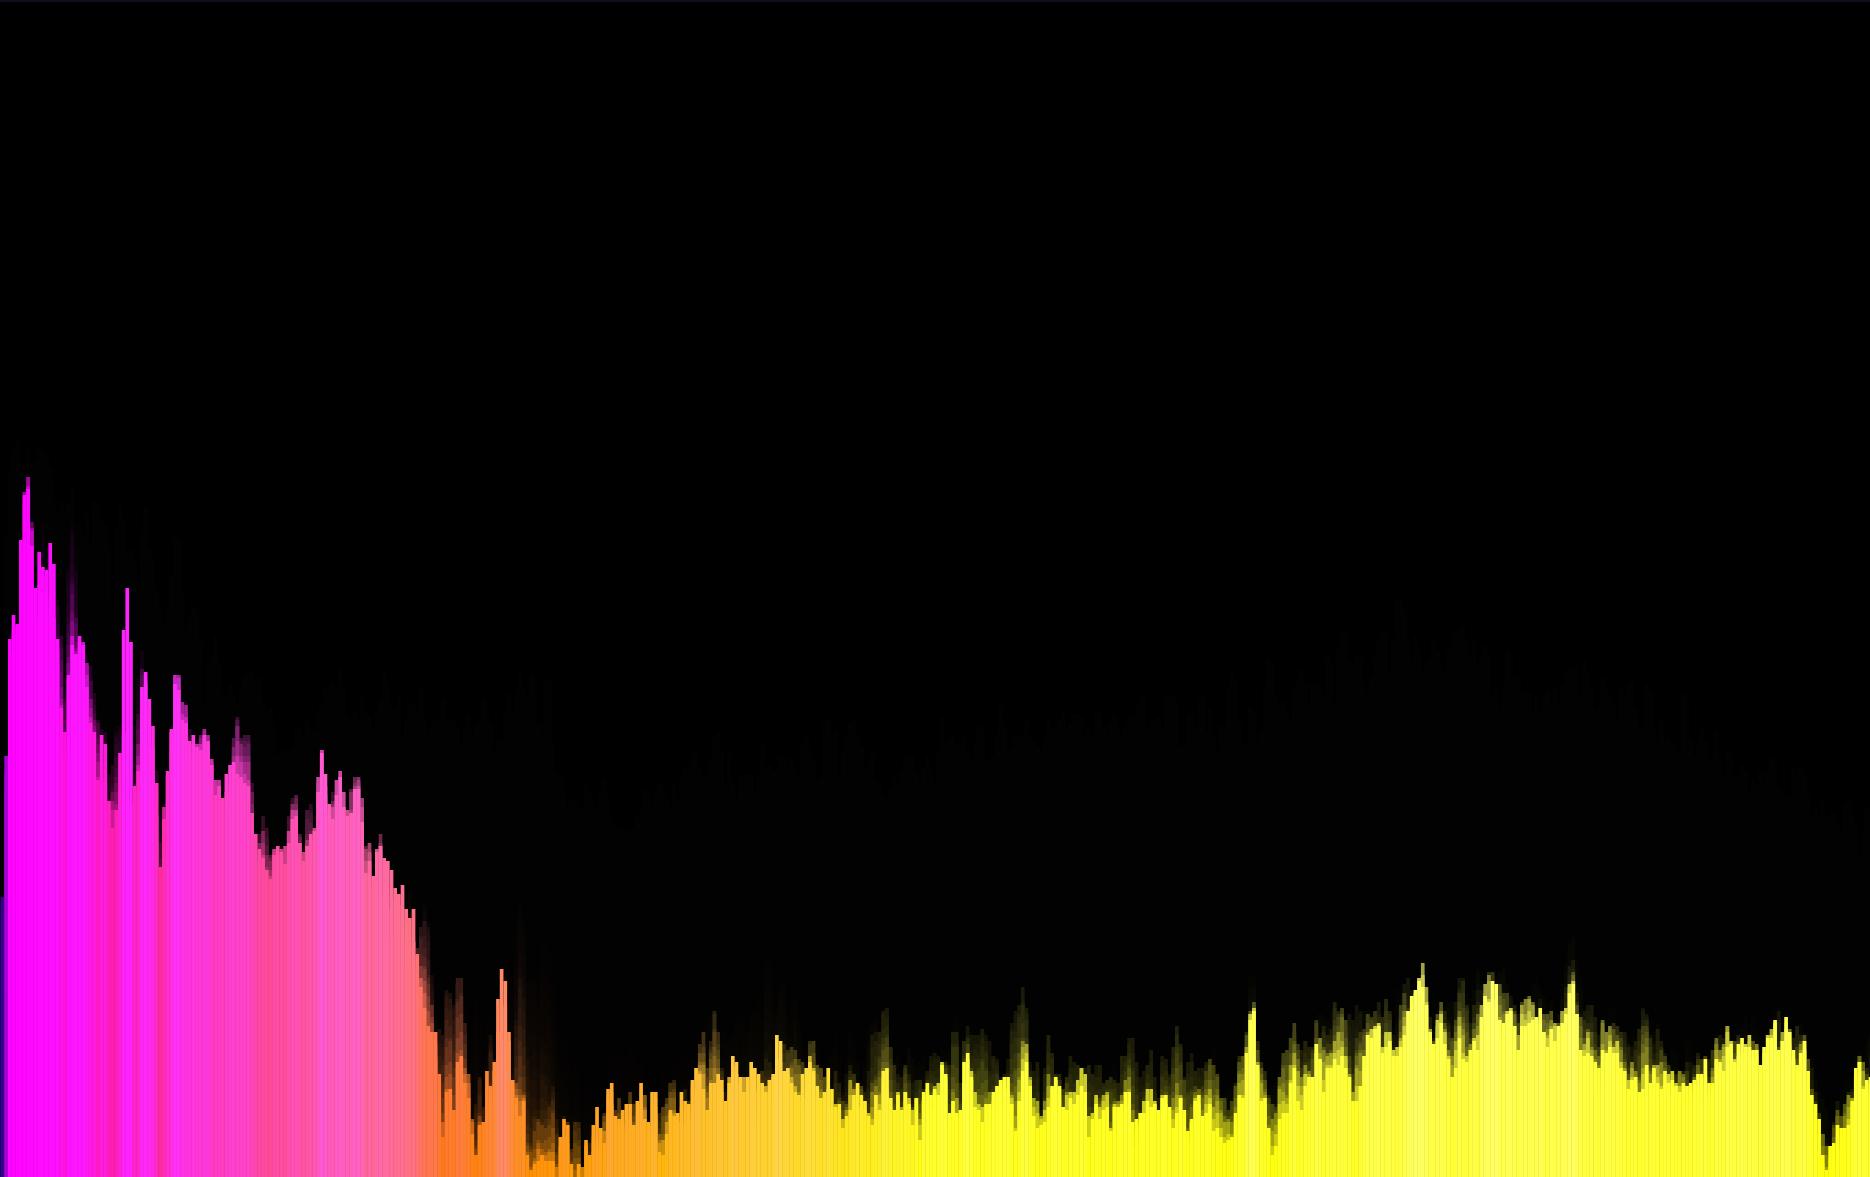
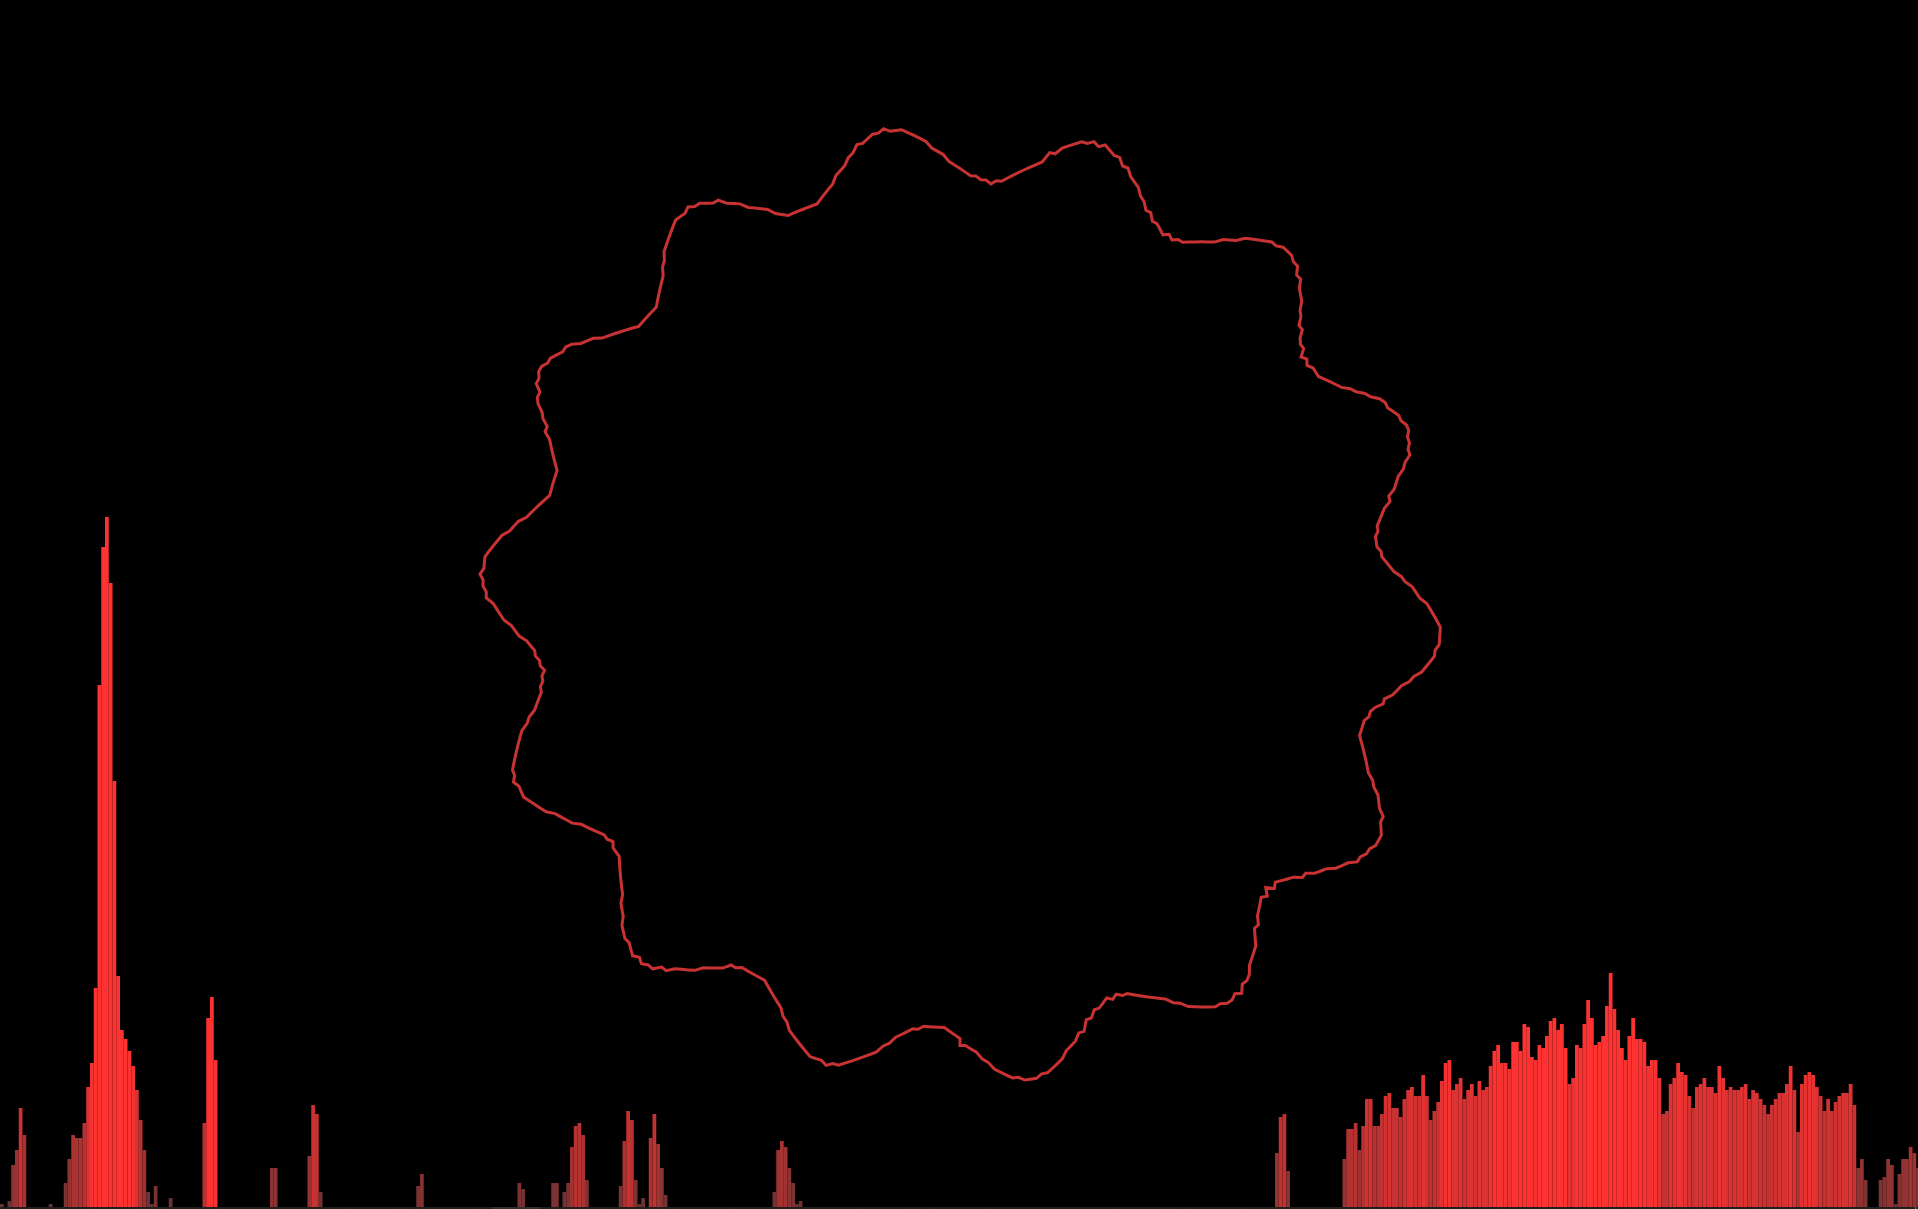
update audiovisualizer

diff --git a/pages/iWasBored/audiovisualizer.html b/pages/iWasBored/audiovisualizer.html
@@ -32,50 +32,88 @@
 		<canvas id="canvas"></canvas>
 		<audio id="audio"></audio>
 		<script>
-			
+
+			var WAVEFORM_AMPLIFIER = 1;
+			var FFT_SIZE = 1024;
+			var WAVEFORM_LINEWIDTH = 3;
+			var FADEOUT = 1;
+
 			navigator.mediaDevices.getUserMedia({ "audio": true }).then((microphone) => {
-			
+
 				var container = document.getElementById("container");
 				var canvas = document.getElementById("canvas");
+				var ctx = canvas.getContext("2d");
 				canvas.width = window.innerWidth;
 				canvas.height = window.innerHeight;
-				
-				var ctx = canvas.getContext("2d");
 				
 				var audioCtx = new (window.AudioContext || window.webkitAudioContext)();
 				var audioSource = audioCtx.createMediaStreamSource(microphone);
 				var analyser = audioCtx.createAnalyser();
 				audioSource.connect(analyser);
 				
-				analyser.fftSize = 1024;
+				analyser.fftSize = FFT_SIZE;
+				
 				var bufferLength = analyser.frequencyBinCount;
 				var dataArray = new Uint8Array(bufferLength);
 				var barWidth = canvas.width / bufferLength;
-				
-				var x;
-				function frame() {
-					x = 0;
-					
-					
-					// ctx.clearRect(0, 0, canvas.width, canvas.height); // CLEAR
-					
-					ctx.fillStyle = "rgba(0, 0, 0, 0.2)"; // FADE, last number: 0 = dont fade, 1, fade immediatly
-					ctx.fillRect(0, 0, canvas.width, canvas.height);
+
+				function frequencybars() {
 					
 					analyser.getByteFrequencyData(dataArray);
+					var x = 0;
 					for (var i = 0; i < bufferLength; i++) {
 						var barHeight = dataArray[i] * 3;
-						var red = (i * barHeight) / 5;
-						var green = i;
-						var blue = barHeight / 2;
-						ctx.fillStyle = `rgb(${red}, ${green}, ${blue})`;
+						ctx.fillStyle = `rgb(${barHeight + 100}, 50, 50)`;
 						ctx.fillRect(x, canvas.height - barHeight, barWidth, barHeight);
 						x += barWidth;
 					}
-					requestAnimationFrame(frame);
 				}
-			
-				frame();
+
+				function waveform() {
+
+					analyser.getByteTimeDomainData(dataArray);
+					
+					ctx.beginPath();
+					ctx.lineWidth = WAVEFORM_LINEWIDTH;
+					ctx.strokeStyle = "rgba(200, 200, 200, 1)";
+
+					var s = Math.min(canvas.width, canvas.height);
+					var radius = s / 2 - s / 8;
+					var centerX = canvas.width / 2;
+					var centerY = canvas.height / 2;
+
+					for (var i = 0; i < dataArray.length; i++) {
+						var v = (dataArray[i] / 128) ** WAVEFORM_AMPLIFIER;
+						var angle = (Math.PI * 2 * i) / dataArray.length;
+						var r = radius * v;
+						var x = centerX + r * Math.cos(angle + Math.PI / 2);
+						var y = centerY + r * Math.sin(angle + Math.PI / 2);
+
+						if (i === 0) {
+							ctx.moveTo(x, y);
+						} else {
+							ctx.lineTo(x, y);
+						}
+					}
+
+					var x = centerX + r * Math.cos(Math.PI * 2 + Math.PI / 2);
+					var y = centerY + r * Math.sin(Math.PI * 2 + Math.PI / 2);
+					ctx.lineTo(x, y);
+					ctx.closePath();
+					ctx.strokeStyle = "rgba(200, 50, 50)";
+					ctx.stroke();
+				}
+
+				function visualize() {
+					requestAnimationFrame(visualize);
+
+					ctx.fillStyle = `rgba(0, 0, 0, ${FADEOUT})`;
+					ctx.fillRect(0, 0, canvas.width, canvas.height);
+					frequencybars();
+					waveform();
+				}
+
+				visualize();
 			});
 		</script>
 	</div>
